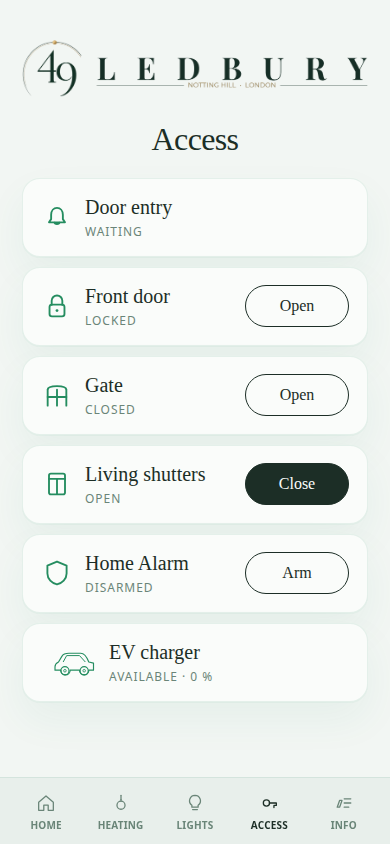
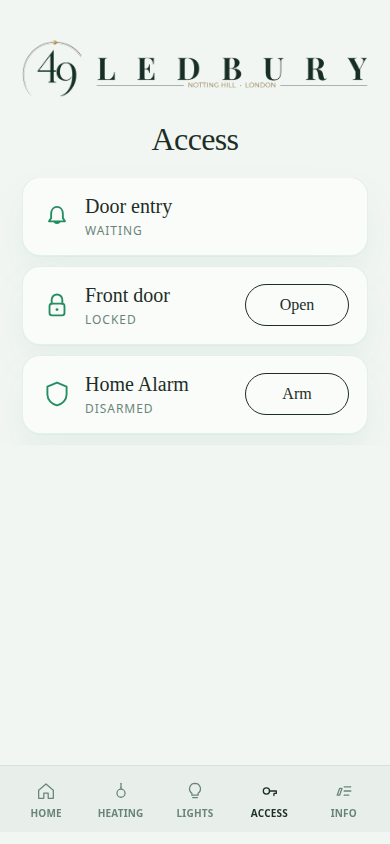
Trim Ledbury Access screenshot and manual copy (0.7.4).
Drop gate, shutters and EV charger from the Access figure and guest docs so the PDF matches the house.

diff --git a/docs/ledbury-manual/build_pdf.py b/docs/ledbury-manual/build_pdf.py
@@ -356,7 +356,7 @@ def build():
         ["Home", "Welcome, London weather, alarm status"],
         ["Heating", "Heating by room (no cooling)"],
         ["Lights", "Lights, dimmers, scenes"],
-        ["Access", "Locks, gate / shutters, alarm, doorbell"],
+        ["Access", "Door lock, alarm, doorbell"],
         ["TV", "Apple TV remote — power, pad, volume"],
         ["Sound", "Audio zones (if available)"],
         ["Info", "Wi-Fi voucher, QR / link to share the app"],
@@ -415,9 +415,8 @@ def build():
     story.append(Paragraph("Access", s["h2"]))
     story.append(
         Paragraph(
-            "Door lock Open / Close; gate or shutters Open / Close / Stop; "
-            "alarm Arm / Disarm with confirmation. If someone rings, a popup may show "
-            "the door camera and <b>Open the gate</b>.",
+            "Door lock Open / Close; alarm Arm / Disarm with confirmation. "
+            "If someone rings, a popup may show the door camera.",
             s["body"],
         )
     )

diff --git a/docs/ledbury-guest-app.md b/docs/ledbury-guest-app.md
@@ -15,7 +15,7 @@ Too early: **Available from \<date\>.**
 | **Home** | Welcome, London weather, alarm status |
 | **Heating** | Heating by room (no cooling) |
 | **Lights** | Lights & scenes |
-| **Access** | Locks, shutters / gate, alarm, doorbell |
+| **Access** | Door lock, alarm, doorbell |
 | **Sound** | Audio zones (if available) |
 | **TV** | Apple TV remote (if available) |
 | **Info** | Wi‑Fi voucher, QR / share link |
@@ -38,7 +38,7 @@ Join the guest network → enter the **voucher** on the **captive portal**. Code
 
 ## Access
 
-Locks Open/Close; gate / shutters Open/Close/Stop; alarm Arm/Disarm (confirm). Doorbell popup may show camera + **Open the gate**.
+Door lock Open/Close; alarm Arm/Disarm (confirm). Doorbell popup may show the door camera.
 
 ---
 

diff --git a/CHANGELOG.md b/CHANGELOG.md
@@ -4,6 +4,13 @@ Toutes les versions notables d’Usvegliu. Le numéro tient dans `custom_compone
 
 Le schéma est [SemVer](https://semver.org/lang/fr/) : MAJEUR.MINEUR.CORRECTIF.
 
+## [0.7.4] — 2026-11-27
+
+### Modifié
+- Manuel Ledbury : capture Access sans gate / volets / chargeur VE ; texte aligné.
+
+[0.7.4]: https://github.com/nicdive/ha-mslumio-location/releases/tag/v0.7.4
+
 ## [0.7.3] — 2026-11-27
 
 ### Modifié
